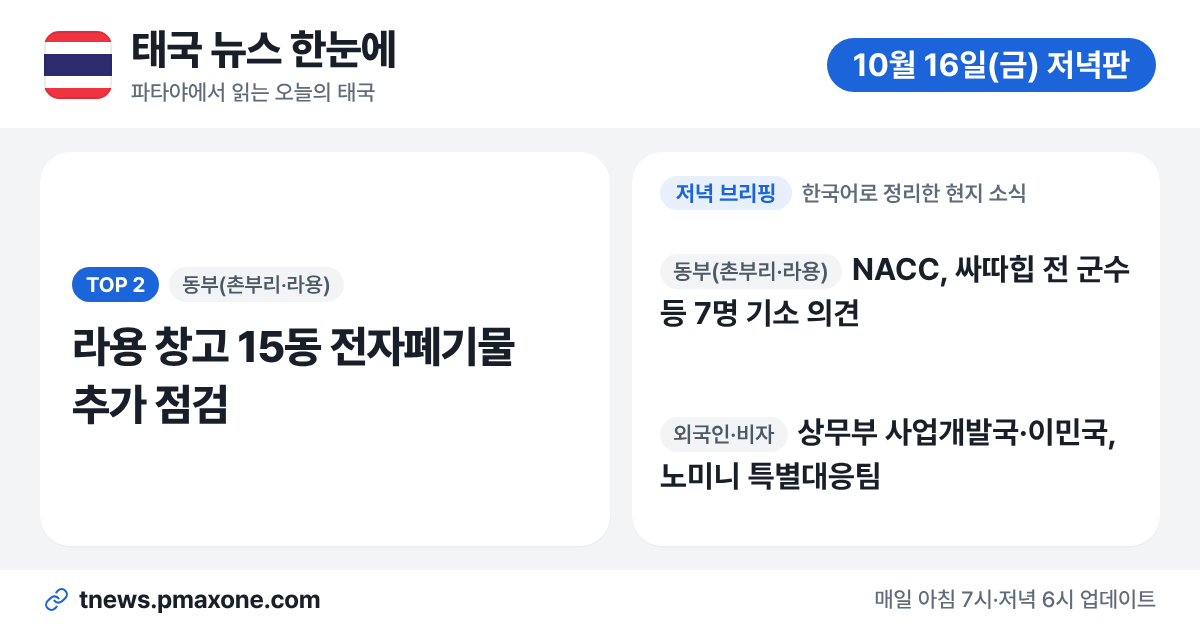
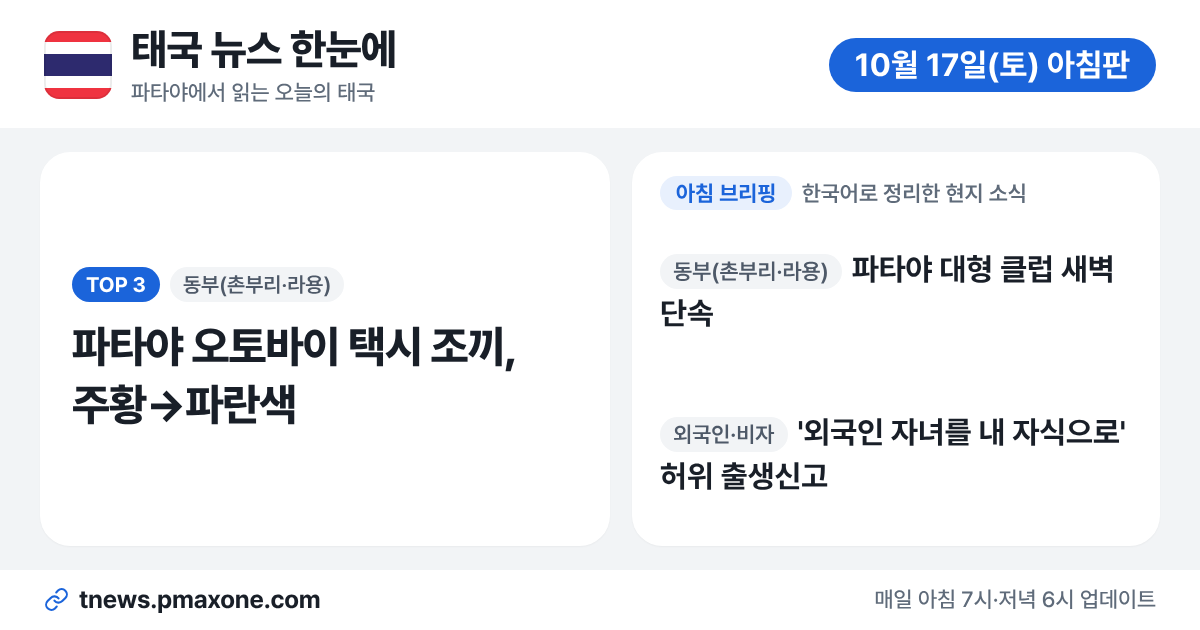
edition 2026-10-17-am

diff --git a/e/2026-10-17-am/index.html b/e/2026-10-17-am/index.html
@@ -1,0 +1,38 @@
+<!doctype html>
+<html lang="ko">
+<head>
+<meta charset="utf-8">
+<meta name="viewport" content="width=device-width, initial-scale=1">
+<meta name="robots" content="noindex, nofollow">
+<title>태국 뉴스 한눈에 — 10월 17일(토) 아침판</title>
+<meta name="description" content="🏖 파타야 오토바이 택시 조끼, 주황→파란색 · 🏖 파타야 대형 클럽 새벽 단속 · 🛂 &#x27;외국인 자녀를 내 자식으로&#x27; 허위 출생신고">
+<meta property="og:type" content="website">
+<meta property="og:site_name" content="태국 뉴스 한눈에">
+<meta property="og:locale" content="ko_KR">
+<meta property="og:title" content="태국 뉴스 한눈에 — 10월 17일(토) 아침판">
+<meta property="og:description" content="🏖 파타야 오토바이 택시 조끼, 주황→파란색 · 🏖 파타야 대형 클럽 새벽 단속 · 🛂 &#x27;외국인 자녀를 내 자식으로&#x27; 허위 출생신고">
+<meta property="og:url" content="https://tnews.pmaxone.com/e/2026-10-17-am/">
+<meta property="og:image" content="https://tnews.pmaxone.com/og/2026-10-17-am.png">
+<meta property="og:image:width" content="1200">
+<meta property="og:image:height" content="630">
+<meta property="og:image:alt" content="태국 뉴스 한눈에 — 10월 17일(토) 아침판">
+<meta name="twitter:card" content="summary_large_image">
+<meta name="twitter:title" content="태국 뉴스 한눈에 — 10월 17일(토) 아침판">
+<meta name="twitter:description" content="🏖 파타야 오토바이 택시 조끼, 주황→파란색 · 🏖 파타야 대형 클럽 새벽 단속 · 🛂 &#x27;외국인 자녀를 내 자식으로&#x27; 허위 출생신고">
+<meta name="twitter:image" content="https://tnews.pmaxone.com/og/2026-10-17-am.png">
+<meta name="theme-color" content="#ffffff">
+<link rel="icon" type="image/png" sizes="32x32" href="../../assets/icons/favicon-32.png">
+<!-- 판별 링크 미리보기용 정적 페이지(tools/share_kit.py 가 생성). 사람은 바로 판 화면으로 이동.
+     meta refresh 는 일부 미리보기 수집기가 따라가 메인 페이지 태그를 읽을 수 있어 쓰지 않음(JS 이동 + 링크). -->
+<script>location.replace("../../?ed=2026-10-17-am" + location.hash);</script>
+<style>body{margin:0;font-family:Pretendard,"Apple SD Gothic Neo","Noto Sans KR",sans-serif;background:#F2F4F6;color:#191F28}
+header{background:#fff;color:#191F28;padding:18px 20px;font-weight:800;font-size:20px;box-shadow:0 1px 0 rgba(0,0,0,.05)}main{padding:20px;max-width:640px;margin:auto}
+a.btn{display:inline-block;margin-top:14px;background:#1B64DA;color:#fff;font-weight:700;padding:12px 18px;border-radius:12px;text-decoration:none}
+li{margin:6px 0;color:#333D4B}</style>
+<link rel="stylesheet" href="/assets/g-pages.css?v=1">
+</head>
+<body>
+<header>태국 뉴스 한눈에</header>
+<main><p><b>10월 17일 아침판</b></p><ul><li>🏖 파타야 오토바이 택시 조끼, 주황→파란색</li><li>🏖 파타야 대형 클럽 새벽 단속</li><li>🛂 &#x27;외국인 자녀를 내 자식으로&#x27; 허위 출생신고</li><li>🏙 방콕 수돗물 중단 예고</li><li>🌦 태국 기상청 &quot;중부·동부·남부 호우&quot;</li></ul><a class="btn" href="../../?ed=2026-10-17-am">이번 판 열기 →</a></main>
+</body>
+</html>
